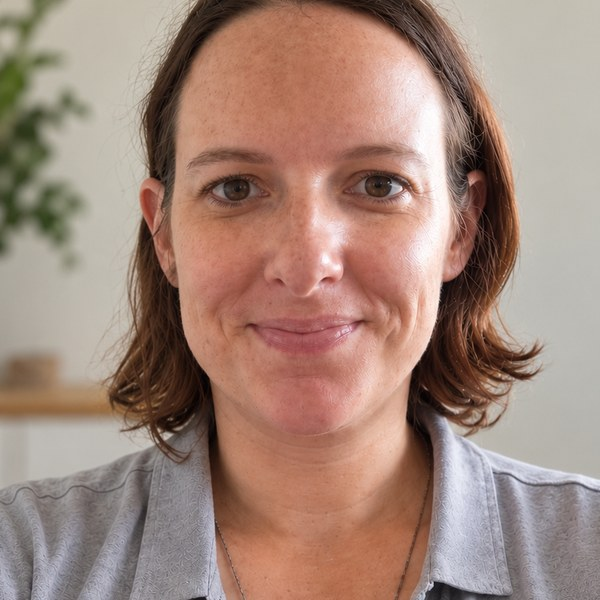
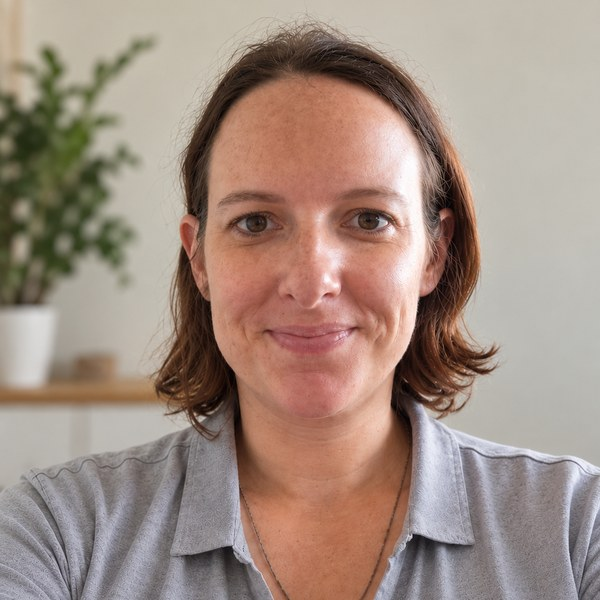
Add Logan & Gold Coast support team; recrop Dee and Hannah
Claude-Session: https://claude.ai/code/session_01WcKuETZzRdsLNnXw6x7in6

diff --git a/eleventy.config.js b/eleventy.config.js
@@ -107,7 +107,13 @@ export default function (eleventyConfig) {
   );
 
   eleventyConfig.addFilter("inLocation", (team, loc) =>
-    (team || []).filter((t) => t.data.based === loc || t.data.all_locations === true)
+    (team || []).filter((t) => {
+      if (t.data.all_locations === true || t.data.based === loc) return true;
+      // "Logan & Gold Coast, QLD" shows on both the Logan and Gold Coast pages
+      const [places, state] = String(t.data.based || "").split(/,\s*/);
+      const [town, locState] = String(loc || "").split(/,\s*/);
+      return state === locState && (places || "").split(/\s*&\s*/).includes(town);
+    })
   );
   eleventyConfig.addFilter("initials", (name) =>
     String(name || "")

diff --git a/src/team/hayley.md b/src/team/hayley.md
@@ -1,0 +1,11 @@
+---
+name: Hayley
+title: Support Worker
+team: Support team
+order: 13
+based: Logan & Gold Coast, QLD
+all_locations: false
+photo: /images/uploads/team-hayley.jpg
+bio: ""
+show: true
+---

diff --git a/src/team/lauren.md b/src/team/lauren.md
@@ -1,0 +1,11 @@
+---
+name: Lauren
+title: Support Worker
+team: Support team
+order: 15
+based: Logan & Gold Coast, QLD
+all_locations: false
+photo: /images/uploads/team-lauren.jpg
+bio: ""
+show: true
+---

diff --git a/src/team/fiona.md b/src/team/fiona.md
@@ -1,0 +1,11 @@
+---
+name: Fiona
+title: Support Worker
+team: Support team
+order: 10
+based: Logan & Gold Coast, QLD
+all_locations: false
+photo: /images/uploads/team-fiona.jpg
+bio: ""
+show: true
+---

diff --git a/src/team/tarn.md b/src/team/tarn.md
@@ -1,0 +1,11 @@
+---
+name: Tarn
+title: Registered Nurse
+team: Support team
+order: 11
+based: Logan & Gold Coast, QLD
+all_locations: false
+photo: /images/uploads/team-tarn.jpg
+bio: ""
+show: true
+---

diff --git a/src/team/teena.md b/src/team/teena.md
@@ -1,0 +1,11 @@
+---
+name: Teena
+title: Support Worker
+team: Support team
+order: 12
+based: Logan & Gold Coast, QLD
+all_locations: false
+photo: /images/uploads/team-teena.jpg
+bio: ""
+show: true
+---

diff --git a/src/team/tracy.md b/src/team/tracy.md
@@ -1,0 +1,11 @@
+---
+name: Tracy
+title: Support Worker
+team: Support team
+order: 14
+based: Logan & Gold Coast, QLD
+all_locations: false
+photo: /images/uploads/team-tracy.jpg
+bio: ""
+show: true
+---
